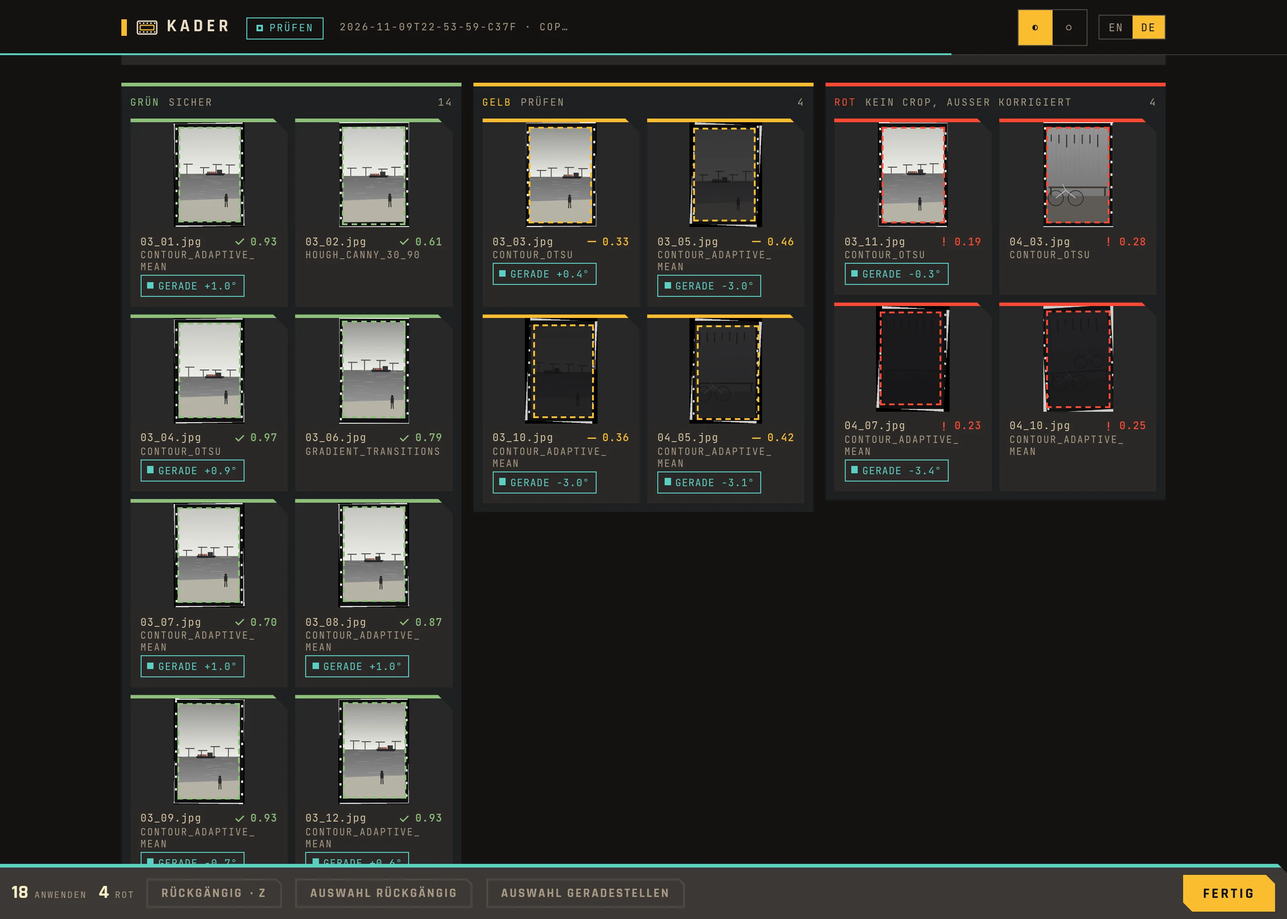
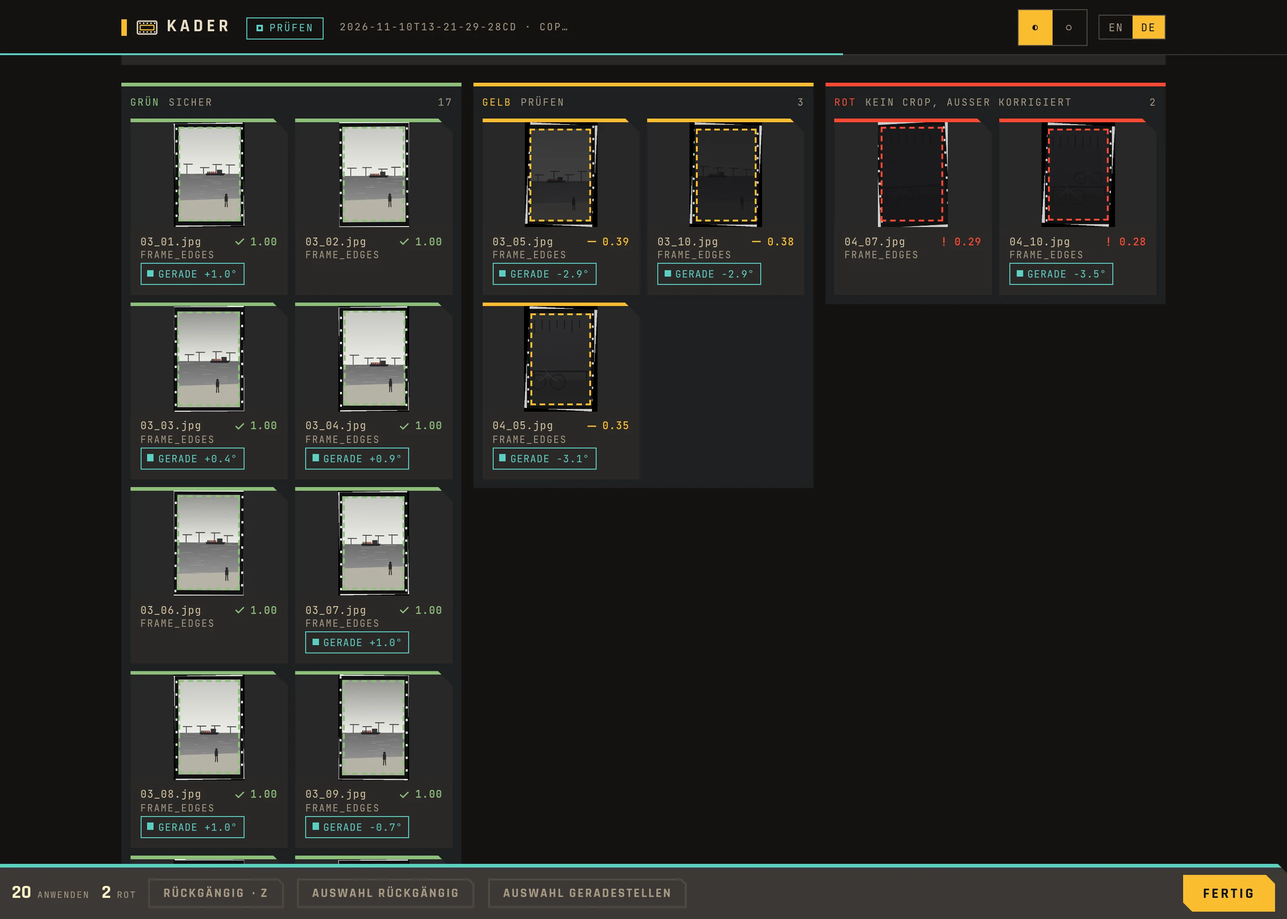
Release 0.5.0
Version 0.5.0 in pyproject.toml and companion/__init__.py, the 0.5.0
section in CHANGELOG.md, and the landing page: new entry at the top of
#changes with a screenshot of the four edges in the editor and a bar
chart of the hand crops (109 -> 167 of 209), 0.2.0 moved into "Older
releases", download box and footer on 0.5.0. Screenshots retaken from
the demo world; a new shot "edges" scrolls the editor to the factors.

Two small findings from the review of #23: an unreadable picture now
counts both progress steps, so the bar reaches its total, and the
progress test uses more pictures than the polarity sample. With equal
factors the editor marks only one as the weakest.

diff --git a/docs/index.html b/docs/index.html
@@ -41,8 +41,8 @@
   </div>
   <div class="hero-side">
     <div class="install-card">
-      <label><span lang="en">Download · version 0.4.0</span><span lang="de">Herunterladen · Version 0.4.0</span></label>
-      <div class="install-links"><a class="btn btn-primary" href="https://github.com/shrippen/kader/releases/download/v0.4.0/Kader-0.4.0-windows-x64.exe">Windows (.exe)</a><a class="btn btn-primary" href="https://github.com/shrippen/kader/releases/download/v0.4.0/Kader-0.4.0-x86_64.AppImage">Linux (AppImage)</a></div>
+      <label><span lang="en">Download · version 0.5.0</span><span lang="de">Herunterladen · Version 0.5.0</span></label>
+      <div class="install-links"><a class="btn btn-primary" href="https://github.com/shrippen/kader/releases/download/v0.5.0/Kader-0.5.0-windows-x64.exe">Windows (.exe)</a><a class="btn btn-primary" href="https://github.com/shrippen/kader/releases/download/v0.5.0/Kader-0.5.0-x86_64.AppImage">Linux (AppImage)</a></div>
       <p class="install-note" lang="en">No Python, no terminal. Double-click, pick the folder of scans, check the crops in the browser. Windows 10 and 11; Linux from Ubuntu 22.04, Mint 21 or Debian 12. Uses darktable? The first start offers to set up the plugin.</p><p class="install-note" lang="de">Kein Python, kein Terminal. Doppelklicken, den Ordner mit den Scans wählen, die Zuschnitte im Browser prüfen. Windows 10 und 11; Linux ab Ubuntu 22.04, Mint 21 oder Debian 12. Du nutzt darktable? Der erste Start bietet an, das Plugin einzurichten.</p>
       <p class="install-note" lang="en">On a NAS or over SSH: with Python, <code>kader FOLDER --tui</code> shows the status in the terminal (see <a href="#terminal">Terminal</a>). All versions on the <a href="https://github.com/shrippen/kader/releases">release page</a>.</p><p class="install-note" lang="de">Auf einem NAS oder per SSH: mit Python zeigt <code>kader ORDNER --tui</code> den Stand im Terminal (siehe <a href="#terminal">Terminal</a>). Alle Versionen auf der <a href="https://github.com/shrippen/kader/releases">Release-Seite</a>.</p>
     </div>
@@ -102,7 +102,7 @@
 </section>
 <section class="section" id="status"><h2 lang="en">Where it stands</h2><h2 lang="de">Wo es steht</h2><p lang="en">The workflow is complete: folder in, web UI, six targets, darktable optional, packages for Windows and Linux. On 1373 reference crops of 35 mm film, the detection places all four edges within 25 px for about 81 % of the frames (image 2000 px long). What remains are mostly dark rolls, where film border and image are both black in the file, and frames in front of a black background.</p><p lang="de">Der Ablauf ist vollständig: Ordner hinein, Web-Oberfläche, sechs Ziele, darktable optional, Pakete für Windows und Linux. Auf 1373 Referenz-Crops von Kleinbildfilm legt die Erkennung bei etwa 81 % der Rahmen alle vier Kanten auf 25 px genau (Bild 2000 px lang). Übrig bleiben vor allem dunkle Rollen, bei denen Filmrand und Bild in der Datei beide schwarz sind, und Rahmen vor schwarzem Hintergrund.</p><p lang="en">About 96 % of the green results are right. Images whose edges do not show come out yellow or red instead of looking sure; they are not solved, only shown.</p><p lang="de">Etwa 96 % der grünen Ergebnisse stimmen. Bilder, deren Kanten nicht zu sehen sind, werden gelb oder rot, statt sicher zu wirken; gelöst sind sie nicht, nur ausgewiesen.</p><div class="table-wrap"><table class="table"><thead><tr><th><span lang="en">Next</span><span lang="de">Als Nächstes</span></th><th><span lang="en">Goal</span><span lang="de">Ziel</span></th></tr></thead><tbody><tr><td><span lang="en">darktable on Windows</span><span lang="de">darktable unter Windows</span></td><td><span lang="en">Check the plugin in a real darktable on Windows (so far only tested on Linux)</span><span lang="de">Das Plugin in echtem darktable unter Windows prüfen (bisher nur unter Linux getestet)</span></td></tr><tr><td><span lang="en">Test the sidecars</span><span lang="de">Sidecars prüfen</span></td><td><span lang="en">Check the <code>xmp</code> and <code>rawtherapee</code> output in Lightroom and RawTherapee themselves</span><span lang="de">Die Ausgabe von <code>xmp</code> und <code>rawtherapee</code> in Lightroom und RawTherapee selbst prüfen</span></td></tr><tr><td><span lang="en">Learn from feedback</span><span lang="de">Aus Rückmeldungen lernen</span></td><td><span lang="en">Use the corrections made in the web UI to find where the detection fails</span><span lang="de">Die Korrekturen aus der Web-Oberfläche nutzen, um zu finden, wo die Erkennung scheitert</span></td></tr></tbody></table></div><p lang="en">Details in the <a href="https://github.com/shrippen/kader/blob/main/roadmap.md">roadmap</a> and the <a href="https://github.com/shrippen/kader/blob/main/CHANGELOG.md">changelog</a>.</p><p lang="de">Details in der <a href="https://github.com/shrippen/kader/blob/main/roadmap.md">Roadmap</a> und im <a href="https://github.com/shrippen/kader/blob/main/CHANGELOG.md">Changelog</a>.</p></section>
 <section class="section" id="review"><h2 lang="en">Calibration</h2><h2 lang="de">Kalibrierung</h2><p lang="en">The reference data comes from the same web UI with the <code>reviews</code> target. A reference test shows how many detected crops lie within tolerance of your hand crops, and tiles are marked hit or miss. Corrections and accepted crops are saved as ground truth.</p><p lang="de">Die Referenzdaten kommen aus derselben Web-Oberfläche mit dem Ziel <code>reviews</code>. Ein Referenz-Test zeigt, wie viele erkannte Crops innerhalb der Toleranz zu deinen Handcrops liegen, und Kacheln tragen die Marke Treffer oder Abweichung. Korrekturen und bestätigte Crops werden als Ground Truth gespeichert.</p><ul lang="en"><li>Start it with <code>./start_review_gui.sh</code>, or <code>--films 33 34</code> for single rolls</li><li>Measure with <code>tools/eval.py</code> (hit rate, leave-one-film-out)</li></ul><ul lang="de"><li>Starte es mit <code>./start_review_gui.sh</code>, oder <code>--films 33 34</code> für einzelne Rollen</li><li>Messen mit <code>tools/eval.py</code> (Trefferquote, Leave-One-Film-Out)</li></ul></section>
-<section class="section" id="install"><h2 lang="en">Installation</h2><h2 lang="de">Installation</h2><h3 lang="en">Download (Windows, Linux)</h3><h3 lang="de">Herunterladen (Windows, Linux)</h3><div class="install-links" style="margin:.5rem 0 1.1rem"><a class="btn btn-accent" href="https://github.com/shrippen/kader/releases/download/v0.4.0/Kader-0.4.0-windows-x64.exe">Windows (.exe)</a><a class="btn btn-accent" href="https://github.com/shrippen/kader/releases/download/v0.4.0/Kader-0.4.0-x86_64.AppImage">Linux (AppImage)</a><a class="btn btn-outline" href="https://github.com/shrippen/kader/releases"><span lang="en">All releases</span><span lang="de">Alle Versionen</span></a></div><p lang="en">No Python and no terminal. Double-click, pick the folder, and the review opens in the browser while a small window shows the progress. RAWs are developed without other programs.</p><p lang="de">Kein Python und kein Terminal. Doppelklicken, den Ordner wählen, und die Prüfung öffnet sich im Browser, während ein kleines Fenster den Fortschritt zeigt. RAWs werden ohne weitere Programme entwickelt.</p><ul lang="en"><li><strong>Windows:</strong> the file is not signed. On the first start Windows says “Windows protected your PC”: click <strong>More info</strong>, then <strong>Run anyway</strong>.</li><li><strong>Linux:</strong> make the AppImage executable once (right-click → Properties → Permissions → “Allow executing as program”, or <code>chmod +x Kader-*.AppImage</code>), then double-click.</li><li>You can also drag the folder onto the file instead of using the dialog.</li></ul><ul lang="de"><li><strong>Windows:</strong> Die Datei ist nicht signiert. Beim ersten Start meldet Windows „Der Computer wurde durch Windows geschützt“: auf <strong>Weitere Informationen</strong>, dann <strong>Trotzdem ausführen</strong> klicken.</li><li><strong>Linux:</strong> Das AppImage einmal ausführbar machen (Rechtsklick → Eigenschaften → Berechtigungen → „Als Programm ausführen“, oder <code>chmod +x Kader-*.AppImage</code>), dann doppelklicken.</li><li>Statt des Dialogs kannst du den Ordner auch auf die Datei ziehen.</li></ul><h3 lang="en">darktable plugin</h3><h3 lang="de">darktable-Plugin</h3><p lang="en">If darktable is installed, the first start of the app offers to set up the plugin. Close darktable first. The app copies the plugin, turns it on in the Script Manager and remembers where the app lives; if you move the app, the next start updates that. The panel in the lighttable is called <strong>Kader</strong>. Later: <code>Kader darktable-plugin install</code>, <code>uninstall</code> or <code>status</code>.</p><p lang="de">Ist darktable installiert, bietet der erste Start der App an, das Plugin einzurichten. darktable vorher schließen. Die App kopiert das Plugin, schaltet es im Script Manager ein und merkt sich, wo die App liegt; verschiebst du sie, trägt der nächste Start das nach. Das Modul im Leuchttisch heißt <strong>Kader</strong>. Später: <code>Kader darktable-plugin install</code>, <code>uninstall</code> oder <code>status</code>.</p><h3 lang="en">With Python</h3><h3 lang="de">Mit Python</h3><div class="codeblock">git clone https://github.com/shrippen/kader.git
+<section class="section" id="install"><h2 lang="en">Installation</h2><h2 lang="de">Installation</h2><h3 lang="en">Download (Windows, Linux)</h3><h3 lang="de">Herunterladen (Windows, Linux)</h3><div class="install-links" style="margin:.5rem 0 1.1rem"><a class="btn btn-accent" href="https://github.com/shrippen/kader/releases/download/v0.5.0/Kader-0.5.0-windows-x64.exe">Windows (.exe)</a><a class="btn btn-accent" href="https://github.com/shrippen/kader/releases/download/v0.5.0/Kader-0.5.0-x86_64.AppImage">Linux (AppImage)</a><a class="btn btn-outline" href="https://github.com/shrippen/kader/releases"><span lang="en">All releases</span><span lang="de">Alle Versionen</span></a></div><p lang="en">No Python and no terminal. Double-click, pick the folder, and the review opens in the browser while a small window shows the progress. RAWs are developed without other programs.</p><p lang="de">Kein Python und kein Terminal. Doppelklicken, den Ordner wählen, und die Prüfung öffnet sich im Browser, während ein kleines Fenster den Fortschritt zeigt. RAWs werden ohne weitere Programme entwickelt.</p><ul lang="en"><li><strong>Windows:</strong> the file is not signed. On the first start Windows says “Windows protected your PC”: click <strong>More info</strong>, then <strong>Run anyway</strong>.</li><li><strong>Linux:</strong> make the AppImage executable once (right-click → Properties → Permissions → “Allow executing as program”, or <code>chmod +x Kader-*.AppImage</code>), then double-click.</li><li>You can also drag the folder onto the file instead of using the dialog.</li></ul><ul lang="de"><li><strong>Windows:</strong> Die Datei ist nicht signiert. Beim ersten Start meldet Windows „Der Computer wurde durch Windows geschützt“: auf <strong>Weitere Informationen</strong>, dann <strong>Trotzdem ausführen</strong> klicken.</li><li><strong>Linux:</strong> Das AppImage einmal ausführbar machen (Rechtsklick → Eigenschaften → Berechtigungen → „Als Programm ausführen“, oder <code>chmod +x Kader-*.AppImage</code>), dann doppelklicken.</li><li>Statt des Dialogs kannst du den Ordner auch auf die Datei ziehen.</li></ul><h3 lang="en">darktable plugin</h3><h3 lang="de">darktable-Plugin</h3><p lang="en">If darktable is installed, the first start of the app offers to set up the plugin. Close darktable first. The app copies the plugin, turns it on in the Script Manager and remembers where the app lives; if you move the app, the next start updates that. The panel in the lighttable is called <strong>Kader</strong>. Later: <code>Kader darktable-plugin install</code>, <code>uninstall</code> or <code>status</code>.</p><p lang="de">Ist darktable installiert, bietet der erste Start der App an, das Plugin einzurichten. darktable vorher schließen. Die App kopiert das Plugin, schaltet es im Script Manager ein und merkt sich, wo die App liegt; verschiebst du sie, trägt der nächste Start das nach. Das Modul im Leuchttisch heißt <strong>Kader</strong>. Später: <code>Kader darktable-plugin install</code>, <code>uninstall</code> oder <code>status</code>.</p><h3 lang="en">With Python</h3><h3 lang="de">Mit Python</h3><div class="codeblock">git clone https://github.com/shrippen/kader.git
 cd kader
 ./install.sh --standalone   # command "kader", without darktable
 ./install.sh                # darktable plugin (Linux)</div><p lang="en"><code>--standalone</code> sets up its own environment in <code>~/.local/share/kader/venv</code> with OpenCV, NumPy, Pillow and <code>rawpy</code> and links <code>kader</code> to <code>~/.local/bin</code>. By hand: <code>pip install ".[raw]"</code>. Without <code>--standalone</code> it installs the darktable plugin for Python; then enable <strong>contrib → Kader</strong> in the Script Manager. Only this way offers the old direct mode <strong>Detect &amp; Queue</strong>.</p><p lang="de"><code>--standalone</code> richtet eine eigene Umgebung unter <code>~/.local/share/kader/venv</code> mit OpenCV, NumPy, Pillow und <code>rawpy</code> ein und verlinkt <code>kader</code> nach <code>~/.local/bin</code>. Von Hand: <code>pip install ".[raw]"</code>. Ohne <code>--standalone</code> wird das darktable-Plugin für Python installiert; danach im Script Manager <strong>contrib → Kader</strong> einschalten. Nur dieser Weg bietet den alten Direktmodus <strong>Detect &amp; Queue</strong>.</p></section>
@@ -111,6 +111,40 @@ cd kader
   <h2 lang="en">Changes</h2><h2 lang="de">Änderungen</h2>
   <p lang="en">What each release brought, newest first. Every release adds an entry here and the same notes on the release page.</p><p lang="de">Was jede Version gebracht hat, die neueste zuerst. Jede Version bekommt hier einen Eintrag und dieselben Notizen auf der Release-Seite.</p>
   <ol class="changelog">
+    <li class="release" id="v0.5.0">
+      <div class="release-head"><b class="release-version">0.5.0</b><time datetime="2026-11-10"><span lang="en">10 Nov 2026</span><span lang="de">10. Nov. 2026</span></time></div>
+      <div class="release-body">
+        <p class="release-lead"><span lang="en">The crop now sits on the frame: Kader measures the frame edges of a whole roll together, shows how sure each of the four edges is, and reads dark pictures from the RAW file.</span><span lang="de">Der Crop sitzt jetzt auf dem Rahmen: Kader misst die Rahmenkanten einer ganzen Rolle gemeinsam, zeigt für jede der vier Kanten, wie sicher sie ist, und liest dunkle Bilder aus dem RAW.</span></p>
+        <div class="release-group" data-kind="new"><h3><span lang="en">New</span><span lang="de">Neu</span></h3><ul>
+          <li><span lang="en">A scanning guide in the web UI, below the gallery: a labelled drawing shows what the camera should capture (file, image area, film border, perforation) and where the crop belongs. The same drawing is in <code>scan-howto.en.md</code>, which now recommends an image area of about 70–90 % of the file width so that all four edges stay in the file.</span><span lang="de">Eine Anleitung zum Scannen in der Web-Oberfläche, unter der Galerie: Eine beschriftete Zeichnung zeigt, was die Kamera aufnehmen soll (Datei, Bildfeld, Filmrand, Perforation) und wo der Crop hingehört. Dieselbe Zeichnung steht in <code>scan-howto.md</code>; dort gilt jetzt ein Bildfeld von etwa 70–90 % der Dateibreite als Richtwert, damit alle vier Kanten in der Datei bleiben.</span></li>
+        </ul></div>
+        <div class="release-group" data-kind="improved"><h3><span lang="en">Improved</span><span lang="de">Verbessert</span></h3><ul>
+          <li><span lang="en">The crop sits on the frame. Kader now measures, for every picture, how completely an edge from film border to picture runs along the whole frame, and adds this up over the roll: the camera's frame window is the same for every picture. On 209 hand-made crops all four edges are within about 1 % of the reference for 167 pictures instead of 109; before, a crop of the right size in the wrong place counted as found.</span><span lang="de">Der Crop sitzt auf dem Rahmen. Kader misst jetzt für jedes Bild, wie geschlossen eine Kante vom Filmrand zum Bild über den ganzen Rahmen läuft, und summiert das über die Rolle: das Bildfenster der Kamera ist für jedes Bild gleich. Bei 209 Crops von Hand liegen bei 167 Bildern alle vier Kanten auf etwa 1 % genau statt bei 109; bisher galt auch ein Crop richtiger Größe an falscher Stelle als gefunden.</span></li>
+          <li><span lang="en">Green means more. The confidence is the weakest of the four edges, so one unseen edge keeps a picture out of green. 98 % of the green crops are that exact instead of 70 %, and more pictures are green.</span><span lang="de">Grün sagt mehr. Die Konfidenz ist die schwächste der vier Kanten, eine ungesehene Kante hält ein Bild also aus Grün heraus. 98 % der grünen Crops sind so genau statt 70 %, und mehr Bilder sind grün.</span></li>
+          <li><span lang="en">A picture with a dark side keeps its frame: the unseen edge is placed by the roll's frame size from the edge that is visible. A black picture takes the usual position of the roll and is marked for review.</span><span lang="de">Ein Bild mit dunkler Seite behält seinen Rahmen: die ungesehene Kante liegt um die Rahmengröße der Rolle neben der sichtbaren. Ein schwarzes Bild bekommt die übliche Lage der Rolle und wird zur Prüfung markiert.</span></li>
+          <li><span lang="en">A single picture in another scale keeps its own edges when both are clearly visible.</span><span lang="de">Ein einzelnes Bild in anderem Maßstab behält seine eigenen Kanten, wenn beide klar zu sehen sind.</span></li>
+          <li><span lang="en">Dark pictures keep their edges when Kader gets the RAW files. A developed export can crush film border and picture into the same black; Kader now measures on its own image from the RAW, where the two are still apart, and tells negatives from slides by the roll. On three dark rolls all four edges are within about 1 % for 47 of 57 hand-made crops instead of 32. This applies to 35 mm film in the web UI and needs the Python package <code>rawpy</code>; without it the export is measured as before.</span><span lang="de">Dunkle Bilder behalten ihre Kanten, wenn Kader die RAW-Dateien bekommt. Ein entwickelter Export kann Filmrand und Bild ins selbe Schwarz drücken; Kader misst jetzt auf einem eigenen Bild aus dem RAW, in dem beide noch getrennt sind, und unterscheidet Negativ und Dia an der Rolle. Auf drei dunklen Rollen liegen bei 47 von 57 Crops von Hand alle vier Kanten auf etwa 1 % genau statt bei 32. Das gilt für Kleinbild in der Web-Oberfläche und braucht das Python-Paket <code>rawpy</code>; ohne es wird wie bisher der Export gemessen.</span></li>
+          <li><span lang="en">The editor shows the four edges as the factors of the confidence.</span><span lang="de">Der Editor zeigt die vier Kanten als Faktoren der Konfidenz.</span></li>
+          <li><span lang="en">A roll is analysed about twice as fast again.</span><span lang="de">Eine Rolle wird noch einmal etwa doppelt so schnell analysiert.</span></li>
+        </ul></div>
+        <div class="release-group" data-kind="note"><h3><span lang="en">Note</span><span lang="de">Hinweis</span></h3><ul>
+          <li><span lang="en">Other formats than 35 mm and rolls without usable edges are detected as before.</span><span lang="de">Andere Formate als Kleinbild und Rollen ohne brauchbare Kanten werden wie bisher erkannt.</span></li>
+          <li><span lang="en">Kader no longer learns a preferred crop size from hand-set crops. The crop sits 0.5 % of the frame's long side inside the measured edge; a stored <code>convention.json</code> is no longer read.</span><span lang="de">Kader lernt keine bevorzugte Crop-Größe mehr aus von Hand gesetzten Crops. Der Crop liegt 0,5 % der langen Rahmenkante innerhalb der gemessenen Kante; eine gespeicherte <code>convention.json</code> wird nicht mehr gelesen.</span></li>
+        </ul></div>
+        <div class="release-shots">
+          <figure><img lang="en" src="shots/release-0.5.0-editor-en.webp" alt="The crop editor: the crop on the frame and the four edges as factors of the confidence" loading="lazy"><img lang="de" src="shots/release-0.5.0-editor-de.webp" alt="Der Crop-Editor: der Crop auf dem Rahmen und die vier Kanten als Faktoren der Konfidenz" loading="lazy"><figcaption><span lang="en">The four edges in the editor</span><span lang="de">Die vier Kanten im Editor</span></figcaption></figure>
+          <figure><svg viewBox="0 0 400 170" role="img" aria-labelledby="edges-t"><title id="edges-t">Hand-made crops with all four edges within about 1 %: 0.4.0 109 of 209, 0.5.0 167 of 209</title>
+              <g style="font-family:var(--font-mono);font-size:12px;fill:var(--fg2)">
+                <text x="56" y="44" text-anchor="end">0.4.0</text><rect x="64" y="28" width="151" height="24" style="fill:var(--fg3)"/><text x="221" y="44">109</text>
+                <text x="56" y="88" text-anchor="end">0.5.0</text><rect x="64" y="72" width="232" height="24" style="fill:var(--primary)"/><text x="302" y="88">167</text>
+                <path d="M64 108v6M133.4 108v6M202.8 108v6M272.2 108v6M354 108v6M64 111h290" style="stroke:var(--fg3);fill:none"/>
+                <text x="64" y="128" text-anchor="middle">0</text><text x="133.4" y="128" text-anchor="middle">50</text><text x="202.8" y="128" text-anchor="middle">100</text><text x="272.2" y="128" text-anchor="middle">150</text><text x="354" y="128" text-anchor="middle">209</text>
+                <text x="209" y="154" text-anchor="middle" style="fill:var(--fg3)"><tspan lang="en">of 209 hand-made crops, all four edges within 1 %</tspan><tspan lang="de">von 209 Crops von Hand, alle vier Kanten auf 1 % genau</tspan></text>
+              </g></svg><figcaption><span lang="en">Crops on the frame</span><span lang="de">Crops auf dem Rahmen</span></figcaption></figure>
+        </div>
+        <a class="release-notes" href="https://github.com/shrippen/kader/compare/v0.4.0...v0.5.0"><span lang="en">All changes since 0.4.0 →</span><span lang="de">Alle Änderungen seit 0.4.0 →</span></a>
+      </div>
+    </li>
     <li class="release" id="v0.4.0">
       <div class="release-head"><b class="release-version">0.4.0</b><time datetime="2026-11-09"><span lang="en">9 Nov 2026</span><span lang="de">9. Nov. 2026</span></time></div>
       <div class="release-body">
@@ -159,6 +193,9 @@ cd kader
         <a class="release-notes" href="https://github.com/shrippen/kader/compare/v0.2.0...v0.3.0"><span lang="en">All changes since 0.2.0 →</span><span lang="de">Alle Änderungen seit 0.2.0 →</span></a>
       </div>
     </li>
+  </ol>
+  <details class="changelog-more"><summary><span lang="en">Older releases</span><span lang="de">Ältere Versionen</span></summary>
+  <ol class="changelog">
     <li class="release" id="v0.2.0">
       <div class="release-head"><b class="release-version">0.2.0</b><time datetime="2026-09-26"><span lang="en">26 Sep 2026</span><span lang="de">26. Sep. 2026</span></time></div>
       <div class="release-body">
@@ -195,9 +232,6 @@ cd kader
         <a class="release-notes" href="https://github.com/shrippen/kader/compare/v0.1...v0.2.0"><span lang="en">All changes since 0.1 →</span><span lang="de">Alle Änderungen seit 0.1 →</span></a>
       </div>
     </li>
-  </ol>
-  <details class="changelog-more"><summary><span lang="en">Older releases</span><span lang="de">Ältere Versionen</span></summary>
-  <ol class="changelog">
     <li class="release" id="v0.1">
       <div class="release-head"><b class="release-version">0.1</b><time datetime="2026-09-20"><span lang="en">20 Sep 2026</span><span lang="de">20. Sep. 2026</span></time></div>
       <div class="release-body">
@@ -235,7 +269,7 @@ cd kader
       <div><h4><span lang="en">Source</span><span lang="de">Quelltext</span></h4><a href="https://github.com/shrippen/kader">GitHub</a><a href="https://github.com/shrippen/kader/releases">Releases</a><a href="https://github.com/shrippen/kader/issues">Issues</a></div>
     </nav>
   </div>
-  <div class="foot-meta"><p>MIT · shrippen · <a href="#changes">v0.4.0</a></p></div>
+  <div class="foot-meta"><p>MIT · shrippen · <a href="#changes">v0.5.0</a></p></div>
 </footer>
 
 </body>

diff --git a/companion/static/editor.js b/companion/static/editor.js
@@ -205,9 +205,10 @@ function confPartsHtml(img) {
   const keys = edges ? PARTS_EDGES : typeof cp.roll_factor === 'number' ? PARTS : PARTS_OLD;
   const vals = keys.filter((k) => typeof cp[k] === 'number');
   const min = Math.min(...vals.map((k) => cp[k]));
+  const weakest = vals.find((k) => cp[k] === min);    // bei Gleichstand nur einer
   const rows = vals.map((k) => {
     const v = cp[k];
-    const weak = v === min && vals.length > 1;
+    const weak = k === weakest && vals.length > 1;
     return `<div class="progress"><div class="progress-head"><span>${T('cp_' + k)}${weak ? ` · ${T('cp_weakest')}` : ''}</span><span>${v.toFixed(2)}</span></div>
       <div class="progress-bar"><i data-label="${v >= 0.7 ? 'green' : v >= 0.4 ? 'yellow' : 'red'}" style="--p:${Math.round(clamp(v) * 100)}%"></i></div></div>`;
   }).join('');

diff --git a/tests/test_frame_edges.py b/tests/test_frame_edges.py
@@ -180,15 +180,21 @@ class RollTest(_Rolls):
         self.assertEqual(sorted(found), ["gut"])
 
     def test_progress_follows_the_measurements(self):
-        paths = self.write([scan(x, y, i) for i, (x, y) in enumerate(OFFSETS)])
+        # mehr Bilder als die Stichprobe zur Polung, dazu eine unlesbare Datei: jedes zaehlt zwei Schritte
+        offsets = OFFSETS + OFFSETS[:4]
+        paths = self.write([scan(x, y, i) for i, (x, y) in enumerate(offsets)])
+        self.assertGreater(len(paths), fe.POLARITY_SAMPLE)
+        broken = os.path.join(self.tmp, "Rolle", "kaputt.png")
+        with open(broken, "w") as f:
+            f.write("kein Bild")
         events = []
 
         def pool_map(fn, items):
             for it in items:
                 events.append("ergebnis")
                 yield fn(it)
-        fe.detect({"Rolle": (paths, PITCH_FRAC)}, pool_map, lambda: events.append("schritt"))
-        self.assertEqual(events.count("schritt"), 2 * len(paths))
+        fe.detect({"Rolle": (paths + [broken], PITCH_FRAC)}, pool_map, lambda: events.append("schritt"))
+        self.assertEqual(events.count("schritt"), 2 * (len(paths) + 1))
         self.assertLess(events.index("schritt"), 3)         # nicht erst, wenn alle gemessen sind
 
     def test_unreadable_file_does_not_stop_the_roll(self):

diff --git a/frame_edges.py b/frame_edges.py
@@ -416,7 +416,8 @@ def detect(rolls, pool_map=map, progress=lambda: None):
 
     rolls: {name: (pfade, pitch_frac)}; pitch_frac = Perforationstakt relativ zur langen Bildkante (film_scale), wenn
     er als Massstab gilt, sonst None. pool_map(fn, items): verteilt die Arbeit je Bild (Standard: nacheinander).
-    progress(): wird je Bild genau zweimal gerufen, nach jedem der zwei Durchlaeufe.
+    progress(): je Bild einer geloesten Rolle zweimal, nach jedem der zwei Durchlaeufe (ein unlesbares Bild
+    zaehlt beide im ersten); Bilder einer Rolle ohne Loesung zaehlen einmal.
     -> {name: (ergebnisse je Bild, rolleninfo)}; Rollen ohne lesbares Bild oder ohne Loesung fehlen.
 
     Bilder einer Rolle mit anderer Arbeitsgroesse (anderer Export) bilden eine eigene Gruppe mit eigener
@@ -449,6 +450,8 @@ def detect(rolls, pool_map=map, progress=lambda: None):
         it = measured.get((job[0], job[2]))
         if it:
             groups.setdefault((name, it["w"], it["h"]), []).append(it)
+        else:
+            progress()      # unlesbar: kein zweiter Durchlauf, sein Schritt zaehlt hier
 
     second, solved = [], {}
     for key, items in groups.items():

diff --git a/companion/__init__.py b/companion/__init__.py
@@ -1,2 +1,2 @@
 """Companion-UI fuer Kader (lokaler Server + Web-Oberflaeche)."""
-__version__ = "0.4.0"
+__version__ = "0.5.0"

diff --git a/CHANGELOG.md b/CHANGELOG.md
@@ -2,7 +2,11 @@
 
 ## [Unreleased]
 
+## [0.5.0] — 2026-11-10
+
 ### English
+
+The crop now sits on the frame: Kader measures the frame edges of a whole roll together, shows how sure each of the four edges is, and reads dark pictures from the RAW file.
 
 #### New
 
@@ -24,8 +28,8 @@
 - Dark pictures keep their edges when Kader gets the RAW files. A developed export can crush film border and
   picture into the same black; Kader now measures on its own image from the RAW, where the two are still apart, and
   tells negatives from slides by the roll. On three dark rolls all four edges are within about 1 % for 47 of 57
-  hand-made crops instead of 32. This applies to 35 mm film in the web UI and needs the Python package `rawpy`; without it the export is measured
-  as before.
+  hand-made crops instead of 32. This applies to 35 mm film in the web UI and needs the Python package `rawpy`;
+  without it the export is measured as before.
 - The editor shows the four edges as the factors of the confidence.
 - A roll is analysed about twice as fast again.
 
@@ -35,7 +39,11 @@
 - Kader no longer learns a preferred crop size from hand-set crops. The crop sits 0.5 % of the frame's long side
   inside the measured edge; a stored `convention.json` is no longer read.
 
+All changes: https://github.com/shrippen/kader/compare/v0.4.0...v0.5.0
+
 ### Deutsch
+
+Der Crop sitzt jetzt auf dem Rahmen: Kader misst die Rahmenkanten einer ganzen Rolle gemeinsam, zeigt für jede der vier Kanten, wie sicher sie ist, und liest dunkle Bilder aus dem RAW.
 
 #### Neu
 
@@ -58,8 +66,8 @@
 - Dunkle Bilder behalten ihre Kanten, wenn Kader die RAW-Dateien bekommt. Ein entwickelter Export kann Filmrand und
   Bild ins selbe Schwarz drücken; Kader misst jetzt auf einem eigenen Bild aus dem RAW, in dem beide noch getrennt
   sind, und unterscheidet Negativ und Dia an der Rolle. Auf drei dunklen Rollen liegen bei 47 von 57 Crops von Hand
-  alle vier Kanten auf etwa 1 % genau statt bei 32. Das gilt für Kleinbild in der Web-Oberfläche und braucht das Python-Paket `rawpy`;
-  ohne es wird wie bisher der Export gemessen.
+  alle vier Kanten auf etwa 1 % genau statt bei 32. Das gilt für Kleinbild in der Web-Oberfläche und braucht das
+  Python-Paket `rawpy`; ohne es wird wie bisher der Export gemessen.
 - Der Editor zeigt die vier Kanten als Faktoren der Konfidenz.
 - Eine Rolle wird noch einmal etwa doppelt so schnell analysiert.
 
